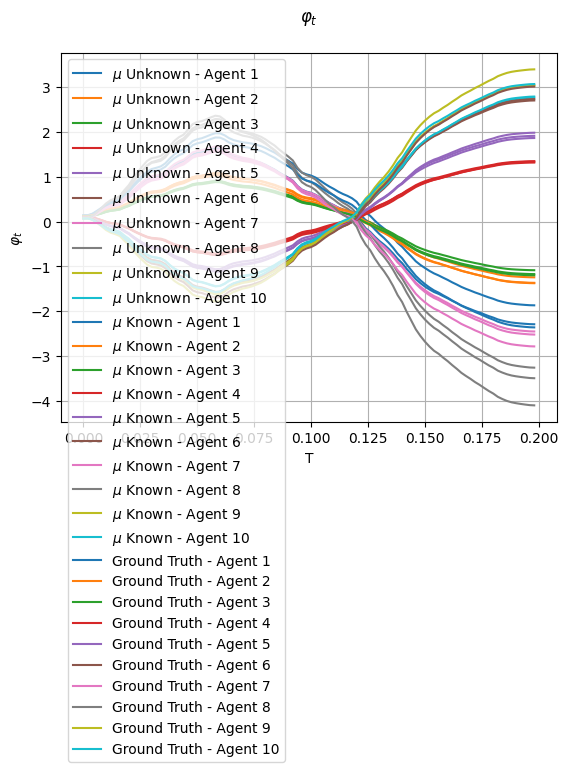
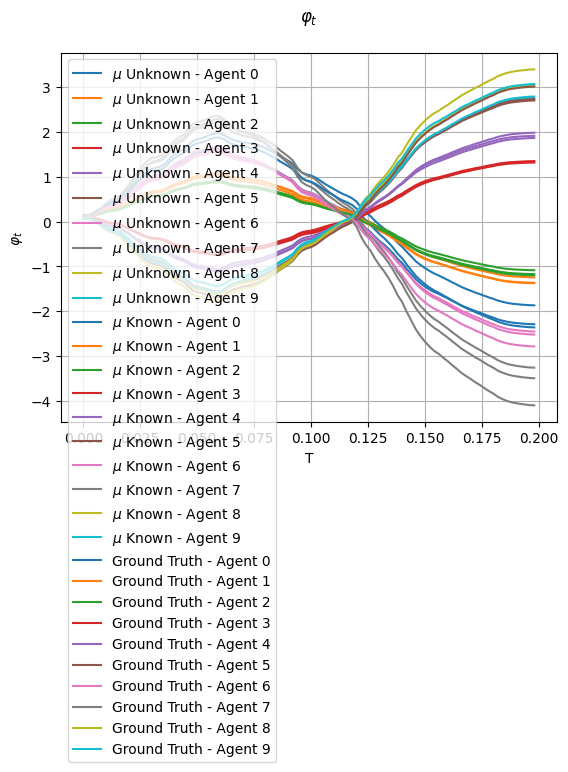
add individual plots for phi

diff --git a/Stage2/.ipynb_checkpoints/gan2-checkpoint.py b/Stage2/.ipynb_checkpoints/gan2-checkpoint.py
@@ -25,8 +25,8 @@ else:
     DEVICE = "cuda"
 
 ## Regimes
-N_AGENT = 2
-COST_POWER = 1.5
+N_AGENT = 10
+COST_POWER = 2
 
 ## Global Constants
 S_VAL = 1 #245714618646 #1#
@@ -628,7 +628,7 @@ def visualize_comparison(timestamps, arr_lst, round, ts, name, algo_lst, comment
         title2 = title
     if name == "phi_dot_short":
         title2 = title
-    if name == "phi_dot" and expand:
+    if name in ["phi_dot", "phi"] and expand:
         size = arr_lst[0].cpu().detach().numpy().shape
         if len(size) == 1:
             size = 1
@@ -1090,8 +1090,8 @@ def plot_all_trajectories(gen_hidden_lst, gen_lr, gen_decay, gen_scheduler_step,
         visualize_comparison(TIMESTAMPS, [phi_dot_stn_nomu[visualize_obs,:,agent] for agent in range(N_AGENT)] + [phi_dot_stn[visualize_obs,:,agent] for agent in range(N_AGENT)] + [phi_dot_stn_truth[visualize_obs,:,agent] for agent in range(N_AGENT)], 0, drive_dir, "phi_dot", [f"$\mu$ Unknown - Agent {agent}" for agent in range(N_AGENT)] + [f"$\mu$ Known - Agent {agent}" for agent in range(N_AGENT)] + [f"{benchmark_name} - Agent {agent}" for agent in range(N_AGENT)], comment = "", expand = False)
         visualize_comparison(TIMESTAMPS, [phi_stn_nomu[visualize_obs,:-1,agent] for agent in range(N_AGENT)] + [phi_stn[visualize_obs,:-1,agent] for agent in range(N_AGENT)] + [phi_stn_truth[visualize_obs,:-1,agent] for agent in range(N_AGENT)], 0, drive_dir, "phi", [f"$\mu$ Unknown - Agent {agent}" for agent in range(N_AGENT)] + [f"$\mu$ Known - Agent {agent}" for agent in range(N_AGENT)] + [f"{benchmark_name} - Agent {agent}" for agent in range(N_AGENT)], comment = "", expand = False)
         # else:
-        visualize_comparison(TIMESTAMPS, [phi_dot_stn_nomu[visualize_obs,:], phi_dot_stn[visualize_obs,:], phi_dot_stn_truth[visualize_obs,:]], 0, drive_dir, "phi_dot", ["$\mu$ Unknown", "$\mu$ Known", benchmark_name], comment = "")
-        visualize_comparison(TIMESTAMPS, [phi_stn_nomu[visualize_obs,:-1], phi_stn[visualize_obs,:-1], phi_stn_truth[visualize_obs,:-1]], 0, drive_dir, "phi", ["$\mu$ Unknown", "$\mu$ Known", benchmark_name], comment = "")
+        visualize_comparison(TIMESTAMPS, [phi_dot_stn_nomu[visualize_obs,:], phi_dot_stn[visualize_obs,:], phi_dot_stn_truth[visualize_obs,:]], 0, drive_dir, "phi_dot", ["$\mu$ Unknown", "$\mu$ Known", benchmark_name], comment = "", expand = True)
+        visualize_comparison(TIMESTAMPS, [phi_stn_nomu[visualize_obs,:-1], phi_stn[visualize_obs,:-1], phi_stn_truth[visualize_obs,:-1]], 0, drive_dir, "phi", ["$\mu$ Unknown", "$\mu$ Known", benchmark_name], comment = "", expand = True)
 
 ## Begin Training
 train_args = {

diff --git a/Stage2/gan2.py b/Stage2/gan2.py
@@ -25,8 +25,8 @@ else:
     DEVICE = "cuda"
 
 ## Regimes
-N_AGENT = 2
-COST_POWER = 1.5
+N_AGENT = 10
+COST_POWER = 2
 
 ## Global Constants
 S_VAL = 1 #245714618646 #1#
@@ -628,7 +628,7 @@ def visualize_comparison(timestamps, arr_lst, round, ts, name, algo_lst, comment
         title2 = title
     if name == "phi_dot_short":
         title2 = title
-    if name == "phi_dot" and expand:
+    if name in ["phi_dot", "phi"] and expand:
         size = arr_lst[0].cpu().detach().numpy().shape
         if len(size) == 1:
             size = 1
@@ -1090,8 +1090,8 @@ def plot_all_trajectories(gen_hidden_lst, gen_lr, gen_decay, gen_scheduler_step,
         visualize_comparison(TIMESTAMPS, [phi_dot_stn_nomu[visualize_obs,:,agent] for agent in range(N_AGENT)] + [phi_dot_stn[visualize_obs,:,agent] for agent in range(N_AGENT)] + [phi_dot_stn_truth[visualize_obs,:,agent] for agent in range(N_AGENT)], 0, drive_dir, "phi_dot", [f"$\mu$ Unknown - Agent {agent}" for agent in range(N_AGENT)] + [f"$\mu$ Known - Agent {agent}" for agent in range(N_AGENT)] + [f"{benchmark_name} - Agent {agent}" for agent in range(N_AGENT)], comment = "", expand = False)
         visualize_comparison(TIMESTAMPS, [phi_stn_nomu[visualize_obs,:-1,agent] for agent in range(N_AGENT)] + [phi_stn[visualize_obs,:-1,agent] for agent in range(N_AGENT)] + [phi_stn_truth[visualize_obs,:-1,agent] for agent in range(N_AGENT)], 0, drive_dir, "phi", [f"$\mu$ Unknown - Agent {agent}" for agent in range(N_AGENT)] + [f"$\mu$ Known - Agent {agent}" for agent in range(N_AGENT)] + [f"{benchmark_name} - Agent {agent}" for agent in range(N_AGENT)], comment = "", expand = False)
         # else:
-        visualize_comparison(TIMESTAMPS, [phi_dot_stn_nomu[visualize_obs,:], phi_dot_stn[visualize_obs,:], phi_dot_stn_truth[visualize_obs,:]], 0, drive_dir, "phi_dot", ["$\mu$ Unknown", "$\mu$ Known", benchmark_name], comment = "")
-        visualize_comparison(TIMESTAMPS, [phi_stn_nomu[visualize_obs,:-1], phi_stn[visualize_obs,:-1], phi_stn_truth[visualize_obs,:-1]], 0, drive_dir, "phi", ["$\mu$ Unknown", "$\mu$ Known", benchmark_name], comment = "")
+        visualize_comparison(TIMESTAMPS, [phi_dot_stn_nomu[visualize_obs,:], phi_dot_stn[visualize_obs,:], phi_dot_stn_truth[visualize_obs,:]], 0, drive_dir, "phi_dot", ["$\mu$ Unknown", "$\mu$ Known", benchmark_name], comment = "", expand = True)
+        visualize_comparison(TIMESTAMPS, [phi_stn_nomu[visualize_obs,:-1], phi_stn[visualize_obs,:-1], phi_stn_truth[visualize_obs,:-1]], 0, drive_dir, "phi", ["$\mu$ Unknown", "$\mu$ Known", benchmark_name], comment = "", expand = True)
 
 ## Begin Training
 train_args = {
